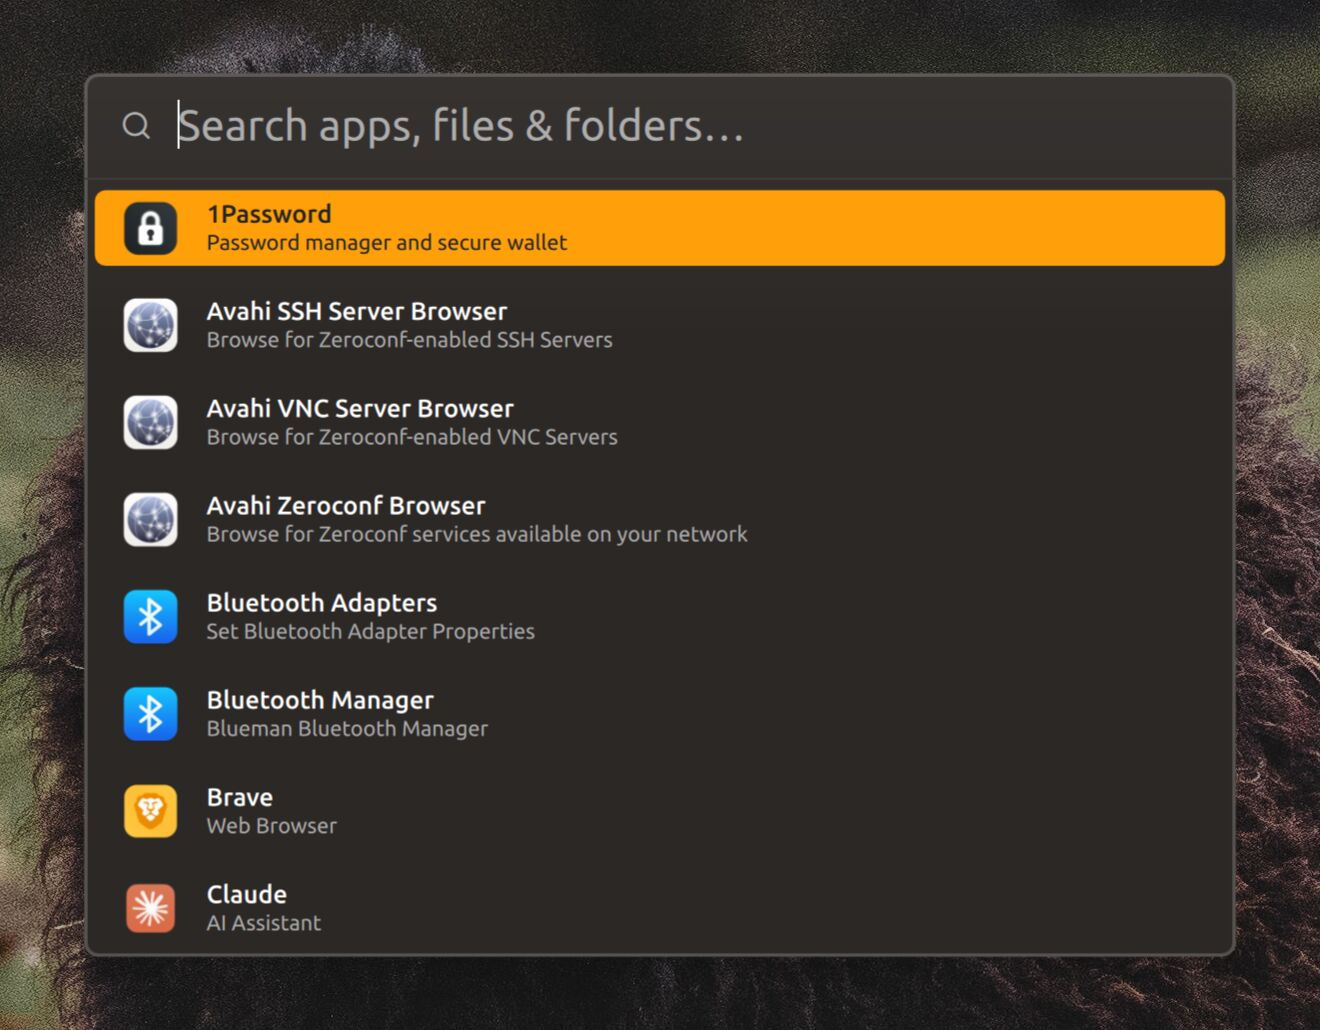
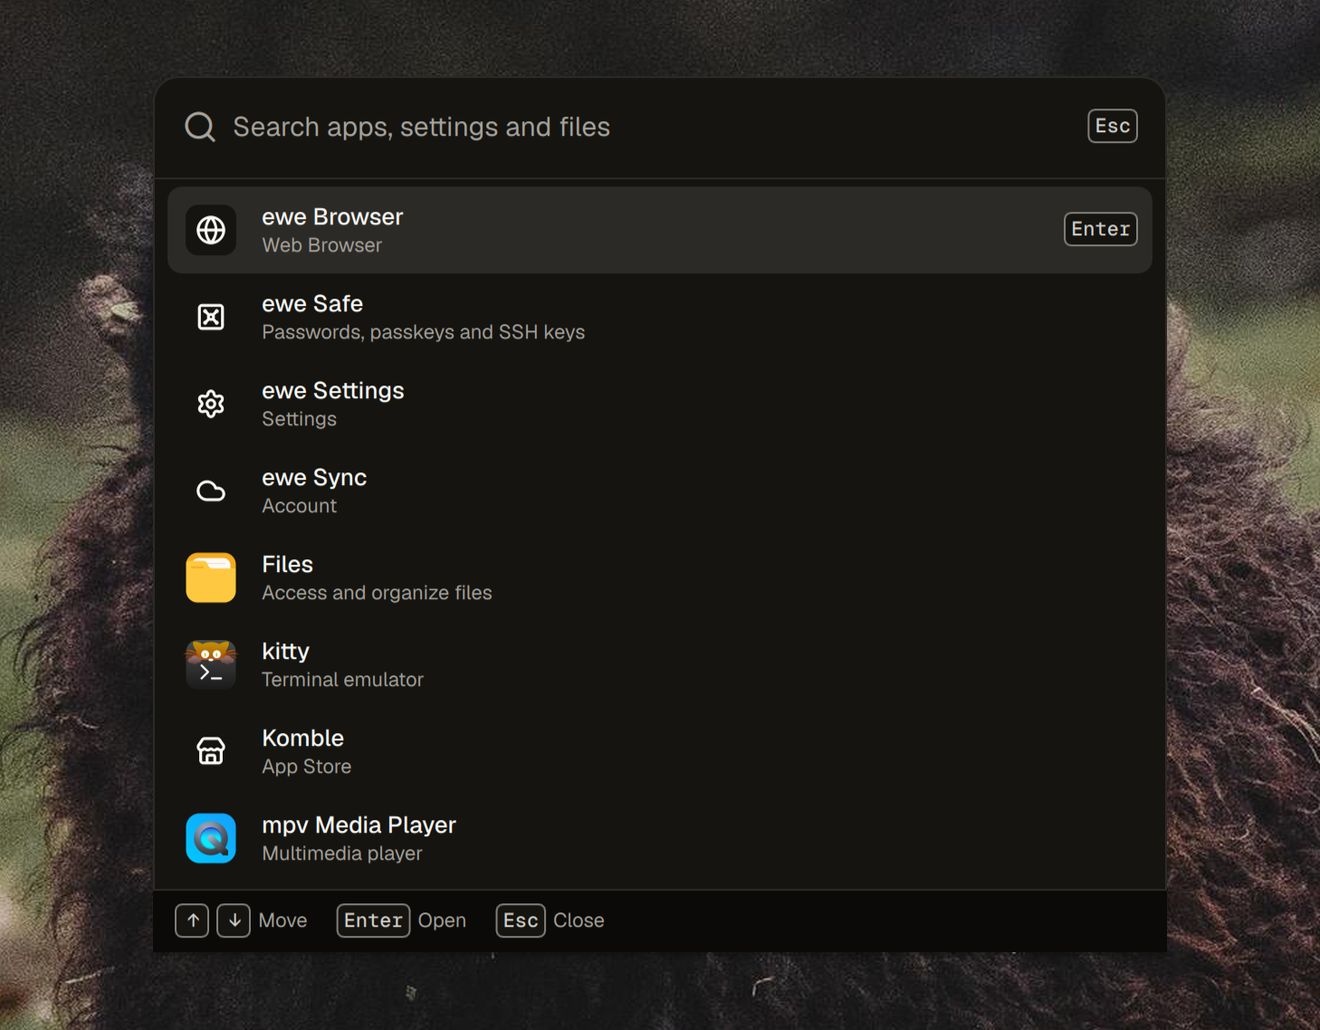
fix(home): a fresh ewe 0.39 launcher screenshot
The old picture showed the pre-v3 launcher in orange, listing apps from
a real machine (1Password, Brave, Claude). Retaken in the same nested
ewe 0.39.0-beta session as the hero (sample user, meadow wallpaper, gold
accent), with a launcher list of only ewe's own apps and common.list
apps as their packages ship them: ewe Browser, ewe Safe, ewe Settings,
ewe Sync, Files, kitty, Komble, mpv Media Player.

Same size and encodings as before: 1320x1030 progressive JPEG q80 +
lossy WebP. The alt text now names what is shown.

Claude-Session: https://claude.ai/code/session_01MGcLHcZ7RHq6edSffuLFg8

diff --git a/src/routes/+page.svelte b/src/routes/+page.svelte
@@ -148,7 +148,7 @@
 				<source srcset="/img/launcher.webp" type="image/webp" />
 				<img
 					src="/img/launcher.jpg"
-					alt="The launcher open over the desktop: a search field for apps, files and folders above a list of apps, the first highlighted in the accent."
+					alt="The launcher open over the desktop: a search field for apps, settings and files above a list of apps (ewe Browser, ewe Safe, ewe Settings, ewe Sync, Files, kitty, Komble, mpv Media Player), the first one selected, and the keys to move, open and close along the bottom."
 					width="1320"
 					height="1030"
 					loading="lazy"
